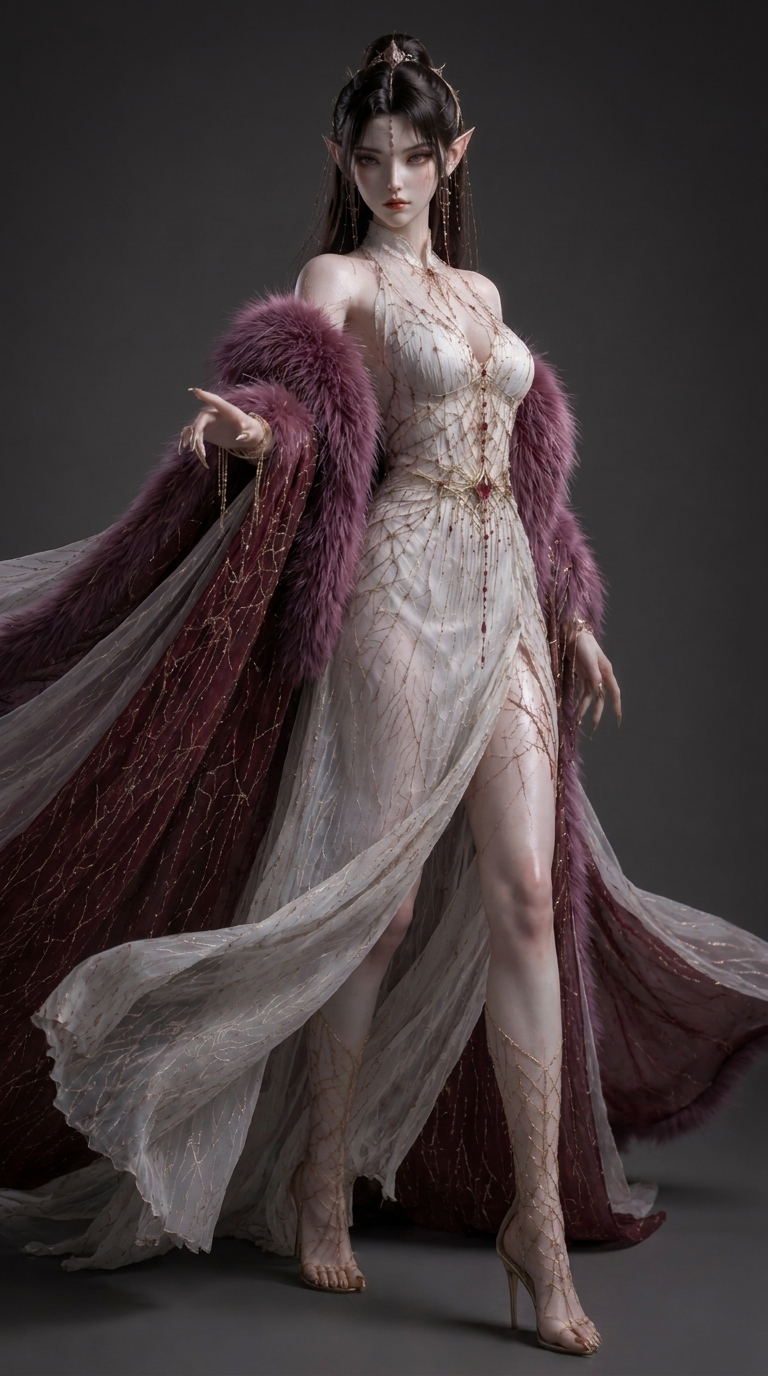
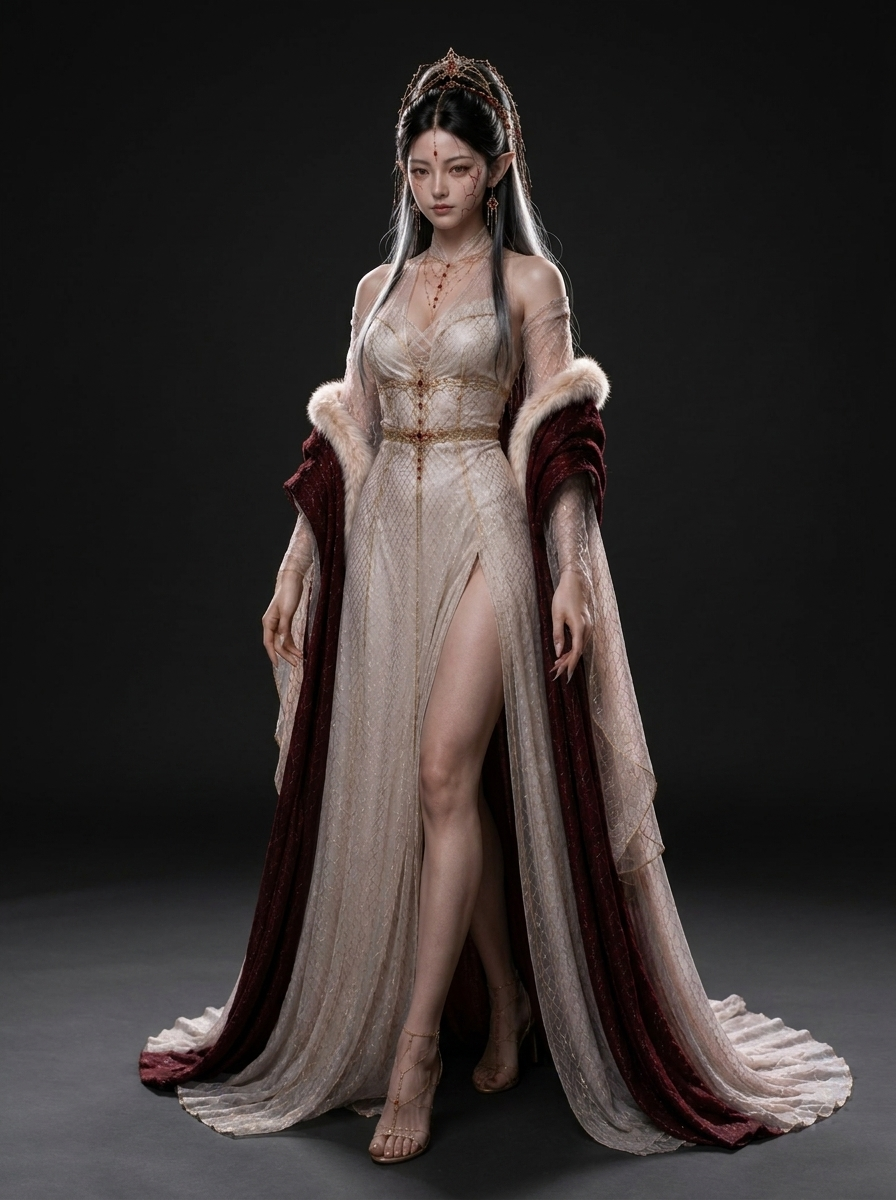
狐祖常态扩展为24张（面部7+全身5+表情12），总143图

diff --git a/index.html b/index.html
@@ -141,7 +141,9 @@ body{background:#0a0a14;color:#ede4d4;font-family:"PingFang SC","Noto Serif SC",
 <a href="#bible-awaken" data-nav="awaken-bible" class="nav-sub">狐祖降临圣经</a>
 <a href="#sec-awaken" data-nav="awaken" class="nav-sub">⚡ 狐祖降临</a>
 <a href="#bible-normal" data-nav="normal-bible" class="nav-sub">狐祖常态圣经</a>
-<a href="#sec-normal" data-nav="normal" class="nav-sub">👑 狐祖常态</a>
+<a href="#sec-normal-face" data-nav="normal-face" class="nav-sub">👑 狐祖面部</a>
+<a href="#sec-normal-body" data-nav="normal-body" class="nav-sub">👑 狐祖全身</a>
+<a href="#sec-normal-expr" data-nav="normal-expr" class="nav-sub">😶 狐祖表情</a>
 <div class="nav-major">临渊·泽狐</div>
 <a href="#sec-linyuan" data-nav="linyuan">🌊 临渊面部</a>
 <div class="nav-major">王玄晏</div>
@@ -180,7 +182,7 @@ body{background:#0a0a14;color:#ede4d4;font-family:"PingFang SC","Noto Serif SC",
 <header class="hero">
 <p class="ep-title">狐祖归来 · EP01</p>
 <h1>狐 祖 归 来</h1>
-<p class="subtitle">雪娘 · 临渊 · 玄晏 · 阿檀 造型图集 · 一百一十九图</p>
+<p class="subtitle">雪娘 · 临渊 · 玄晏 · 阿檀 造型图集 · 一百四十三图</p>
 </header>
 
 <!-- ═══════ 狐族常态圣经 ═══════ -->
@@ -598,7 +600,7 @@ body{background:#0a0a14;color:#ede4d4;font-family:"PingFang SC","Noto Serif SC",
 </div>
 <span class="lb-nav lb-next" id="lbNext">&#8250;</span>
 </div>
-<div class="footer">狐祖归来 · 雪娘 · 临渊 · 玄晏 · 阿檀 · 王嵩 · 青禾 · 巡卫 · 统领 · 狐侍 · 一百一十九造型图</div>
+<div class="footer">狐祖归来 · 雪娘 · 临渊 · 玄晏 · 阿檀 · 王嵩 · 青禾 · 巡卫 · 统领 · 狐侍 · 一百四十三造型图</div>
 
 </div><!-- /.main-wrapper -->
 
@@ -632,7 +634,7 @@ document.querySelectorAll(".sidebar-nav a").forEach(function(a){a.addEventListen
 
 // ── Scroll spy ──
 var navLinks=document.querySelectorAll(".sidebar-nav a[data-nav]");
-var sectionMap={"top":0,"bible-common":"#bible-common","bible-lamp":"#bible-lamp","angles":"#sec-angles","fullbody":"#sec-fullbody","ritual-bible":"#bible-ritual","ritual":"#sec-ritual","awaken-bible":"#bible-awaken","awaken":"#sec-awaken","normal-bible":"#bible-normal","normal":"#sec-normal","linyuan":"#sec-linyuan","xuanyan-bible":"#bible-xuanyan","xuanyan-body":"#sec-xuanyan-body","xuanyan-face":"#sec-xuanyan-face","xuanyan-expr":"#sec-xuanyan-expr","xuanyan-ritual":"#sec-xuanyan-ritual","atan-face":"#sec-atan-face","atan-body":"#sec-atan-body","wangsong":"#sec-wangsong","wangsong-bible":"#bible-wangsong","qinghe-face":"#sec-qinghe-face","qinghe-body":"#sec-qinghe-body","qinghe-expr":"#sec-qinghe-expr","guard-bible":"#bible-guard","guard":"#sec-guard","guard-regular":"#sec-guard-regular","hushi-bible":"#bible-hushi","hushi":"#sec-hushi"};
+var sectionMap={"top":0,"bible-common":"#bible-common","bible-lamp":"#bible-lamp","angles":"#sec-angles","fullbody":"#sec-fullbody","ritual-bible":"#bible-ritual","ritual":"#sec-ritual","awaken-bible":"#bible-awaken","awaken":"#sec-awaken","normal-bible":"#bible-normal","normal-face":"#sec-normal-face","normal-body":"#sec-normal-body","normal-expr":"#sec-normal-expr","linyuan":"#sec-linyuan","xuanyan-bible":"#bible-xuanyan","xuanyan-body":"#sec-xuanyan-body","xuanyan-face":"#sec-xuanyan-face","xuanyan-expr":"#sec-xuanyan-expr","xuanyan-ritual":"#sec-xuanyan-ritual","atan-face":"#sec-atan-face","atan-body":"#sec-atan-body","wangsong":"#sec-wangsong","wangsong-bible":"#bible-wangsong","qinghe-face":"#sec-qinghe-face","qinghe-body":"#sec-qinghe-body","qinghe-expr":"#sec-qinghe-expr","guard-bible":"#bible-guard","guard":"#sec-guard","guard-regular":"#sec-guard-regular","hushi-bible":"#bible-hushi","hushi":"#sec-hushi"};
 var offsets={};
 function updateOffsets(){for(var k in sectionMap){if(sectionMap[k]===0){offsets[k]=0}else{var el=document.querySelector(sectionMap[k]);offsets[k]=el?el.offsetTop-120:99999}}}
 function setActive(nav){navLinks.forEach(function(l){l.classList.remove("active")});var t=document.querySelector('.sidebar-nav a[data-nav="'+nav+'"]');if(t)t.classList.add("active")}
@@ -673,11 +675,30 @@ const scenes=[
 {file:"觉醒_狐祖归来_雪娘_特写细节.png",name:"降临 · 特写细节",script:"降临细节特写——蛛网晶石节点、暗红血脉纹路、金色利爪、荧光紫瞳，捕捉觉醒每一处精微",section:"⚡ 狐祖降临"},
 
 // ── 狐祖常态 ──
-{file:"常态_狐祖归来_雪娘_正面全身.png",name:"常态 · 正面全身",script:"狐祖常态正面——紫红狐皮披肩从肩部垂落，金色绑腿高跟，暗金蛛网礼服，女王俯瞰",section:"👑 狐祖常态"},
-{file:"常态_狐祖归来_雪娘_背面全身.png",name:"常态 · 背面全身",script:"常态背面——狐皮披肩拖垂至地，金丝蛛网斗篷展露暗红内里，九尾隐于衣摆流线",section:"👑 狐祖常态"},
-{file:"常态_狐祖归来_雪娘_侧面全身.png",name:"常态 · 侧面全身",script:"常态侧面——高衩礼服露出金色绑腿高跟，紫红狐尾盘旋于足畔，清冷威严",section:"👑 狐祖常态"},
-{file:"常态_狐祖归来_雪娘_动态站姿.png",name:"常态 · 动态站姿",script:"常态动态——披肩微扬、金丝飘动，狐尾随步伐轻摆，女王出巡的凌厉瞬间",section:"👑 狐祖常态"},
-{file:"常态_狐祖归来_雪娘_特写细节.png",name:"常态 · 特写细节",script:"常态细节——紫红狐皮毛发质感、金色蛛网胸饰与红宝石、绑腿金丝与趾甲、暗金拉链饰",section:"👑 狐祖常态"},
+{file:"常态_狐祖归来_雪娘_正面正视.png",name:"常态 · 正面正视",script:"狐祖常态正面——紫红狐皮披肩，金丝额饰，女王俯瞰众生的目光",section:"👑 狐祖面部"},
+{file:"常态_狐祖归来_雪娘_左侧正侧.png",name:"常态 · 左侧正侧",script:"狐祖左正侧——高束发髻，侧颜如白玉浮雕",section:"👑 狐祖面部"},
+{file:"常态_狐祖归来_雪娘_右侧正侧.png",name:"常态 · 右侧正侧",script:"狐祖右正侧——耳饰与颌线的威严轮廓",section:"👑 狐祖面部"},
+{file:"常态_狐祖归来_雪娘_左侧45度.png",name:"常态 · 左侧45度",script:"狐祖左45°——微侧间流露千年祖威",section:"👑 狐祖面部"},
+{file:"常态_狐祖归来_雪娘_右侧45度.png",name:"常态 · 右侧45度",script:"狐祖右45°——眼神微睨，不可冒犯",section:"👑 狐祖面部"},
+{file:"常态_狐祖归来_雪娘_俯视角度.png",name:"常态 · 俯视角度",script:"狐祖俯视——冠顶与发髻的仪式结构",section:"👑 狐祖面部"},
+{file:"常态_狐祖归来_雪娘_仰视角度.png",name:"常态 · 仰视角度",script:"狐祖仰视——下颌与脖颈线条的女王气场",section:"👑 狐祖面部"},
+{file:"常态_狐祖归来_雪娘_正面全身.png",name:"常态 · 正面全身",script:"狐祖常态正面——紫红狐皮披肩，金色绑腿高跟，王庭统治者",section:"👑 狐祖全身"},
+{file:"常态_狐祖归来_雪娘_背面全身.png",name:"常态 · 背面全身",script:"狐祖背面——狐皮披肩拖地，暗金斗篷内红隐现",section:"👑 狐祖全身"},
+{file:"常态_狐祖归来_雪娘_侧面全身.png",name:"常态 · 侧面全身",script:"狐祖侧面——高衩礼服，绑腿金丝缠绕，狐尾盘旋",section:"👑 狐祖全身"},
+{file:"常态_狐祖归来_雪娘_动态站姿.png",name:"常态 · 动态站姿",script:"狐祖动态——披肩微扬步伐凌厉，女王出巡",section:"👑 狐祖全身"},
+{file:"常态_狐祖归来_雪娘_特写细节.png",name:"常态 · 特写细节",script:"狐祖细节——狐皮毛发、金丝胸饰、绑腿与趾甲",section:"👑 狐祖全身"},
+{file:"常态_狐祖归来_雪娘_默认状态.png",name:"常态 · 默认状态",script:"狐祖默认——平静眼神中藏千年祖威",section:"😶 狐祖表情"},
+{file:"常态_狐祖归来_雪娘_轻微微笑.png",name:"常态 · 轻微微笑",script:"狐祖轻微微笑——嘴角微扬的威仪",section:"😶 狐祖表情"},
+{file:"常态_狐祖归来_雪娘_愤怒.png",name:"常态 · 愤怒",script:"狐祖愤怒——千年狐祖的雷霆之怒",section:"😶 狐祖表情"},
+{file:"常态_狐祖归来_雪娘_悲伤.png",name:"常态 · 悲伤",script:"狐祖悲伤——王座上的孤独",section:"😶 狐祖表情"},
+{file:"常态_狐祖归来_雪娘_恐惧.png",name:"常态 · 恐惧",script:"狐祖恐惧——罕见动摇的瞬间",section:"😶 狐祖表情"},
+{file:"常态_狐祖归来_雪娘_惊讶.png",name:"常态 · 惊讶",script:"狐祖惊讶——意想不到的冲击",section:"😶 狐祖表情"},
+{file:"常态_狐祖归来_雪娘_疑惑.png",name:"常态 · 疑惑",script:"狐祖疑惑——审视中的狐疑",section:"😶 狐祖表情"},
+{file:"常态_狐祖归来_雪娘_思考.png",name:"常态 · 思考",script:"狐祖思考——千年智慧的沉静",section:"😶 狐祖表情"},
+{file:"常态_狐祖归来_雪娘_犹豫.png",name:"常态 · 犹豫",script:"狐祖犹豫——决策边缘的徘徊",section:"😶 狐祖表情"},
+{file:"常态_狐祖归来_雪娘_压力状态.png",name:"常态 · 压力状态",script:"狐祖压力——重担之下的隐忍",section:"😶 狐祖表情"},
+{file:"常态_狐祖归来_雪娘_释然.png",name:"常态 · 释然",script:"狐祖释然——放下重担的松弛",section:"😶 狐祖表情"},
+{file:"常态_狐祖归来_雪娘_角色招牌.png",name:"常态 · 角色招牌",script:"狐祖招牌——千年女王，不可撼动的祖威气场",section:"😶 狐祖表情"},
 
 // ── 临渊·泽狐 ──
 {file:"狐祖归来_临渊_正面正视.png",name:"临渊 · 正面正视",script:"临渊正面——泽狐一脉，面容清冷如深潭，眼眸深邃藏水泽之灵",section:"🌊 临渊面部"},
@@ -796,7 +817,7 @@ const scenes=[
 
 const root=document.getElementById("content-root");
 const doneSections=new Set();
-const secIds={"📐 多角度视图":"sec-angles","👘 全身与姿态":"sec-fullbody","🙏 祭祀造型":"sec-ritual","⚡ 狐祖降临":"sec-awaken","👑 狐祖常态":"sec-normal","🌊 临渊面部":"sec-linyuan","🦊 王玄晏全身":"sec-xuanyan-body","🦊 王玄晏面部":"sec-xuanyan-face","😶 王玄晏表情":"sec-xuanyan-expr","⛩ 飞升祭服":"sec-xuanyan-ritual","🦊 阿檀面部":"sec-atan-face","🦊 阿檀全身":"sec-atan-body","🦊 王嵩":"sec-wangsong","🦊 青禾面部":"sec-qinghe-face","🦊 青禾全身":"sec-qinghe-body","😶 青禾表情":"sec-qinghe-expr","🦊 巡卫统领":"sec-guard","🦊 白狐巡卫":"sec-guard-regular","🦊 白狐狐侍":"sec-hushi"};
+const secIds={"📐 多角度视图":"sec-angles","👘 全身与姿态":"sec-fullbody","🙏 祭祀造型":"sec-ritual","⚡ 狐祖降临":"sec-awaken","👑 狐祖面部":"sec-normal-face","👑 狐祖全身":"sec-normal-body","😶 狐祖表情":"sec-normal-expr","🌊 临渊面部":"sec-linyuan","🦊 王玄晏全身":"sec-xuanyan-body","🦊 王玄晏面部":"sec-xuanyan-face","😶 王玄晏表情":"sec-xuanyan-expr","⛩ 飞升祭服":"sec-xuanyan-ritual","🦊 阿檀面部":"sec-atan-face","🦊 阿檀全身":"sec-atan-body","🦊 王嵩":"sec-wangsong","🦊 青禾面部":"sec-qinghe-face","🦊 青禾全身":"sec-qinghe-body","😶 青禾表情":"sec-qinghe-expr","🦊 巡卫统领":"sec-guard","🦊 白狐巡卫":"sec-guard-regular","🦊 白狐狐侍":"sec-hushi"};
 scenes.forEach((sc,i)=>{
 const sec=sc.section;
 if(!doneSections.has(sec)){
